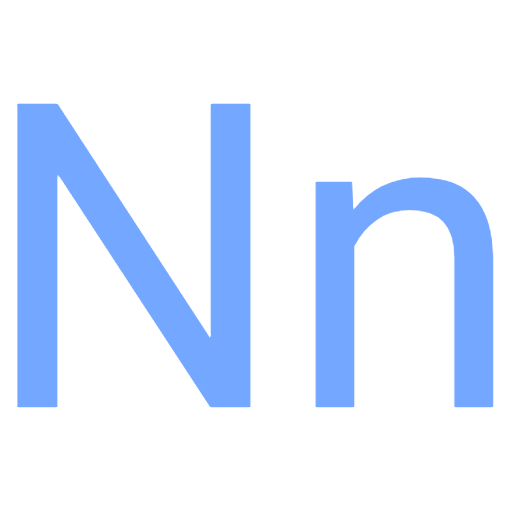
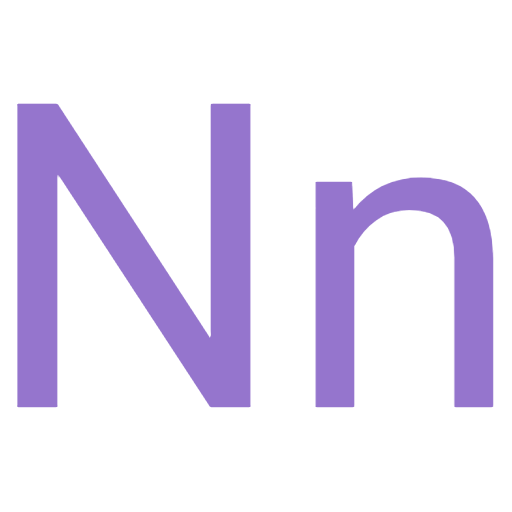
purple colors

Changed region(s): [[0.0312, 0.1875, 0.5, 0.8125], [0.5938, 0.3438, 0.9688, 0.8125]]

diff --git a/src/styles/colors.scss b/src/styles/colors.scss
@@ -1,7 +1,7 @@
 :root {
     --black: #333;
     --white: #fff;
-    --accent-pale: #ddd6ff;
-    --accent-light: #aa99ff;
-    --accent: #8870ff;
+    --accent-pale: #e2daf1;
+    --accent-light: #a98fd6;
+    --accent: #7E57C2;
 }
